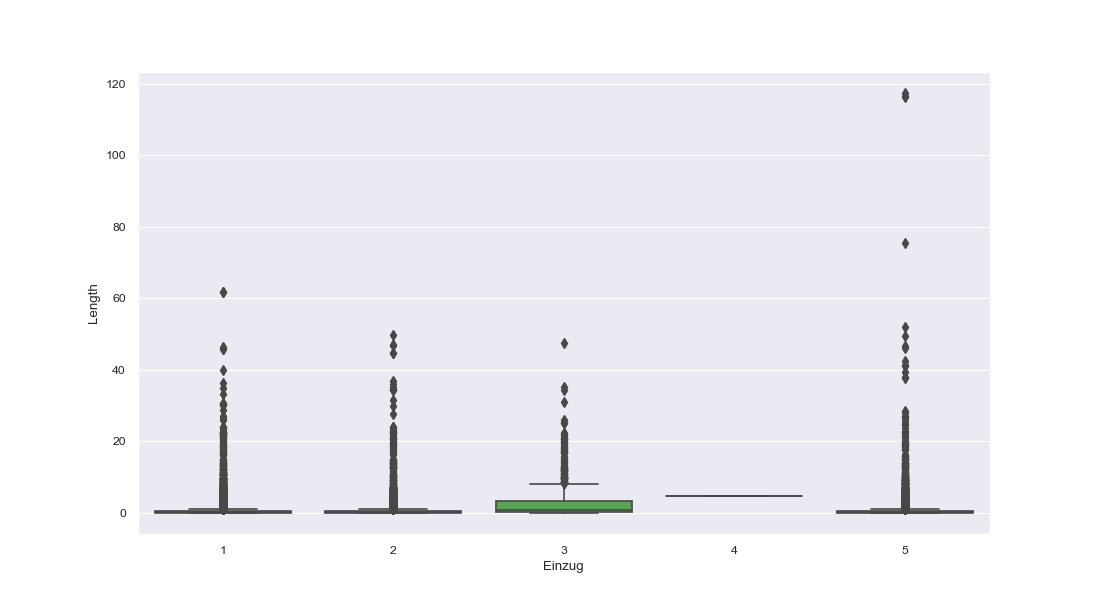
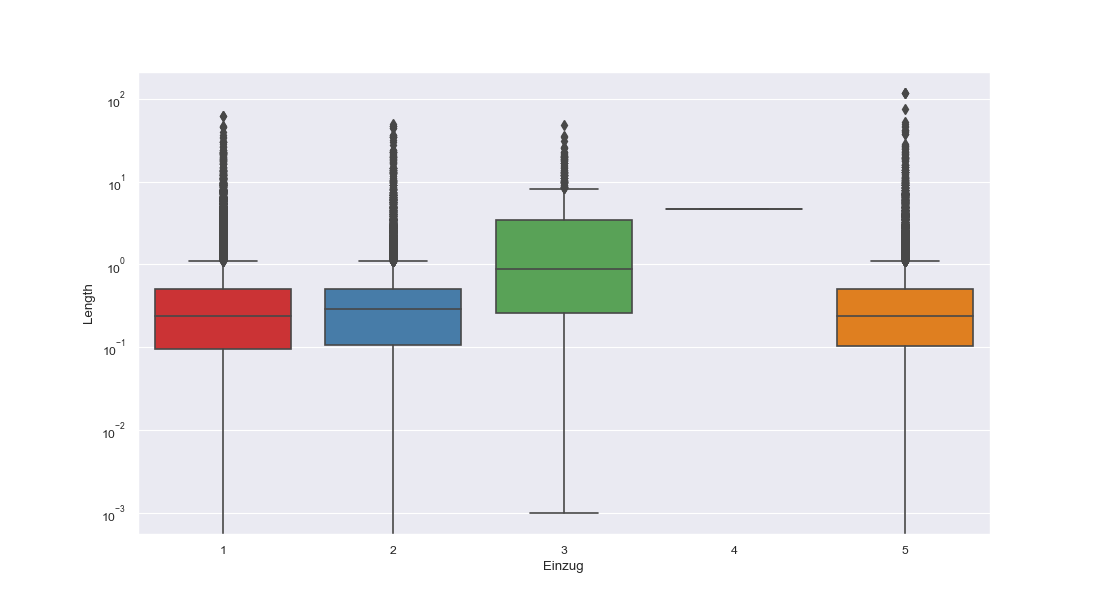
update plots and tex

diff --git a/CorrAnalysis/data/ArbIS/dataset/latex/arbis_dataset_coef_cramers.tex b/CorrAnalysis/data/ArbIS/dataset/latex/arbis_dataset_coef_cramers.tex
@@ -1,13 +1,13 @@
 \begin{tabular}{llllllll}
 \toprule
-{} &           Strasse &   AnzGesperrtFs &          Einzug &        Richtung &             Month &            Length &          Duration \\
+{} &     Strasse & AnzGesperrtFs &      Einzug &        Richtung &       Month &          Length &        Duration \\
 \midrule
-Strasse       &               NaN &      Cramer's V &      Cramer's V &      Cramer's V &        Cramer's V &  Kruskal-Wallis H &  Kruskal-Wallis H \\
-AnzGesperrtFs &        Cramer's V &             NaN &      Cramer's V &      Cramer's V &        Cramer's V &    Kendalls \$tau\$ &    Kendalls \$tau\$ \\
-Einzug        &        Cramer's V &      Cramer's V &             NaN &      Cramer's V &        Cramer's V &    Kendalls \$tau\$ &    Kendalls \$tau\$ \\
-Richtung      &        Cramer's V &      Cramer's V &      Cramer's V &             NaN &        Cramer's V &    Point Biserial &    Point Biserial \\
-Month         &        Cramer's V &      Cramer's V &      Cramer's V &      Cramer's V &               NaN &  Kruskal-Wallis H &  Kruskal-Wallis H \\
-Length        &  Kruskal-Wallis H &  Kendalls \$tau\$ &  Kendalls \$tau\$ &  Point Biserial &  Kruskal-Wallis H &               NaN &       Pearson's r \\
-Duration      &  Kruskal-Wallis H &  Kendalls \$tau\$ &  Kendalls \$tau\$ &  Point Biserial &  Kruskal-Wallis H &       Pearson's r &               NaN \\
+Strasse       &         NaN &    Cramer's V &  Cramer's V &      Cramer's V &  Cramer's V &             Eta &             Eta \\
+AnzGesperrtFs &  Cramer's V &           NaN &  Cramer's V &      Cramer's V &  Cramer's V &         Kendall &         Kendall \\
+Einzug        &  Cramer's V &    Cramer's V &         NaN &      Cramer's V &  Cramer's V &         Kendall &         Kendall \\
+Richtung      &  Cramer's V &    Cramer's V &  Cramer's V &             NaN &  Cramer's V &  Point Biserial &  Point Biserial \\
+Month         &  Cramer's V &    Cramer's V &  Cramer's V &      Cramer's V &         NaN &             Eta &             Eta \\
+Length        &         Eta &       Kendall &     Kendall &  Point Biserial &         Eta &             NaN &         Pearson \\
+Duration      &         Eta &       Kendall &     Kendall &  Point Biserial &         Eta &         Pearson &             NaN \\
 \bottomrule
 \end{tabular}

diff --git a/CorrAnalysis/data/ArbIS/dataset/latex/arbis_dataset_coef_theils.tex b/CorrAnalysis/data/ArbIS/dataset/latex/arbis_dataset_coef_theils.tex
@@ -1,13 +1,13 @@
 \begin{tabular}{llllllll}
 \toprule
-{} &           Strasse &   AnzGesperrtFs &          Einzug &        Richtung &             Month &            Length &          Duration \\
+{} &     Strasse & AnzGesperrtFs &      Einzug &        Richtung &       Month &          Length &        Duration \\
 \midrule
-Strasse       &               NaN &      Theils's U &      Theils's U &      Theils's U &        Theils's U &  Kruskal-Wallis H &  Kruskal-Wallis H \\
-AnzGesperrtFs &        Theils's U &             NaN &      Theils's U &      Theils's U &        Theils's U &    Kendalls \$tau\$ &    Kendalls \$tau\$ \\
-Einzug        &        Theils's U &      Theils's U &             NaN &      Theils's U &        Theils's U &    Kendalls \$tau\$ &    Kendalls \$tau\$ \\
-Richtung      &        Theils's U &      Theils's U &      Theils's U &             NaN &        Theils's U &    Point Biserial &    Point Biserial \\
-Month         &        Theils's U &      Theils's U &      Theils's U &      Theils's U &               NaN &  Kruskal-Wallis H &  Kruskal-Wallis H \\
-Length        &  Kruskal-Wallis H &  Kendalls \$tau\$ &  Kendalls \$tau\$ &  Point Biserial &  Kruskal-Wallis H &               NaN &       Pearson's r \\
-Duration      &  Kruskal-Wallis H &  Kendalls \$tau\$ &  Kendalls \$tau\$ &  Point Biserial &  Kruskal-Wallis H &       Pearson's r &               NaN \\
+Strasse       &         NaN &    Theils's U &  Theils's U &      Theils's U &  Theils's U &             Eta &             Eta \\
+AnzGesperrtFs &  Theils's U &           NaN &  Theils's U &      Theils's U &  Theils's U &         Kendall &         Kendall \\
+Einzug        &  Theils's U &    Theils's U &         NaN &      Theils's U &  Theils's U &         Kendall &         Kendall \\
+Richtung      &  Theils's U &    Theils's U &  Theils's U &             NaN &  Theils's U &  Point Biserial &  Point Biserial \\
+Month         &  Theils's U &    Theils's U &  Theils's U &      Theils's U &         NaN &             Eta &             Eta \\
+Length        &         Eta &       Kendall &     Kendall &  Point Biserial &         Eta &             NaN &         Pearson \\
+Duration      &         Eta &       Kendall &     Kendall &  Point Biserial &         Eta &         Pearson &             NaN \\
 \bottomrule
 \end{tabular}

diff --git a/CorrAnalysis/data/ArbIS/dataset/latex/arbis_dataset_corr_cramers.tex b/CorrAnalysis/data/ArbIS/dataset/latex/arbis_dataset_corr_cramers.tex
@@ -1,13 +1,13 @@
 \begin{tabular}{lrrrrrrr}
 \toprule
-{} &   Strasse &  AnzGesperrtFs &  Einzug &  Richtung &     Month &    Length &  Duration \\
+{} &  Strasse &  AnzGesperrtFs &  Einzug &  Richtung &  Month &  Length &  Duration \\
 \midrule
-Strasse       &      1.00 &           0.16 &    0.17 &      0.05 &      0.06 & 554107.07 & 727166.36 \\
-AnzGesperrtFs &      0.16 &           1.00 &    0.50 &      0.00 &      0.06 &      0.02 &      0.11 \\
-Einzug        &      0.17 &           0.50 &    1.00 &      0.02 &      0.11 &     -0.00 &     -0.15 \\
-Richtung      &      0.05 &           0.00 &    0.02 &      1.00 &      0.03 &     -0.02 &     -0.00 \\
-Month         &      0.06 &           0.06 &    0.11 &      0.03 &      1.00 & 719923.35 & 694726.25 \\
-Length        & 554107.07 &           0.02 &   -0.00 &     -0.02 & 719923.35 &      1.00 &      0.08 \\
-Duration      & 727166.36 &           0.11 &   -0.15 &     -0.00 & 694726.25 &      0.08 &      1.00 \\
+Strasse       &     1.00 &           0.16 &    0.17 &      0.05 &   0.06 &    0.04 &      0.02 \\
+AnzGesperrtFs &     0.16 &           1.00 &    0.50 &      0.00 &   0.06 &    0.02 &      0.11 \\
+Einzug        &     0.17 &           0.50 &    1.00 &      0.02 &   0.11 &   -0.00 &     -0.15 \\
+Richtung      &     0.05 &           0.00 &    0.02 &      1.00 &   0.03 &   -0.02 &     -0.00 \\
+Month         &     0.06 &           0.06 &    0.11 &      0.03 &   1.00 &    0.04 &      0.02 \\
+Length        &     0.04 &           0.02 &   -0.00 &     -0.02 &   0.04 &    1.00 &      0.08 \\
+Duration      &     0.02 &           0.11 &   -0.15 &     -0.00 &   0.02 &    0.08 &      1.00 \\
 \bottomrule
 \end{tabular}

diff --git a/CorrAnalysis/data/ArbIS/dataset/latex/arbis_dataset_corr_theils.tex b/CorrAnalysis/data/ArbIS/dataset/latex/arbis_dataset_corr_theils.tex
@@ -1,13 +1,13 @@
 \begin{tabular}{lrrrrrrr}
 \toprule
-{} &   Strasse &  AnzGesperrtFs &  Einzug &  Richtung &     Month &    Length &  Duration \\
+{} &  Strasse &  AnzGesperrtFs &  Einzug &  Richtung &  Month &  Length &  Duration \\
 \midrule
-Strasse       &      1.00 &           0.02 &    0.03 &      0.00 &      0.01 & 554107.07 & 727166.36 \\
-AnzGesperrtFs &      0.08 &           1.00 &    0.96 &      0.00 &      0.01 &      0.02 &      0.11 \\
-Einzug        &      0.06 &           0.56 &    1.00 &      0.00 &      0.02 &     -0.00 &     -0.15 \\
-Richtung      &      0.00 &           0.00 &    0.00 &      1.00 &      0.00 &     -0.02 &     -0.00 \\
-Month         &      0.01 &           0.00 &    0.01 &      0.00 &      1.00 & 719923.35 & 694726.25 \\
-Length        & 554107.07 &           0.02 &   -0.00 &     -0.02 & 719923.35 &      1.00 &      0.08 \\
-Duration      & 727166.36 &           0.11 &   -0.15 &     -0.00 & 694726.25 &      0.08 &      1.00 \\
+Strasse       &     1.00 &           0.02 &    0.03 &      0.00 &   0.01 &    0.04 &      0.02 \\
+AnzGesperrtFs &     0.08 &           1.00 &    0.96 &      0.00 &   0.01 &    0.02 &      0.11 \\
+Einzug        &     0.06 &           0.56 &    1.00 &      0.00 &   0.02 &   -0.00 &     -0.15 \\
+Richtung      &     0.00 &           0.00 &    0.00 &      1.00 &   0.00 &   -0.02 &     -0.00 \\
+Month         &     0.01 &           0.00 &    0.01 &      0.00 &   1.00 &    0.04 &      0.02 \\
+Length        &     0.04 &           0.02 &   -0.00 &     -0.02 &   0.04 &    1.00 &      0.08 \\
+Duration      &     0.02 &           0.11 &   -0.15 &     -0.00 &   0.02 &    0.08 &      1.00 \\
 \bottomrule
 \end{tabular}
